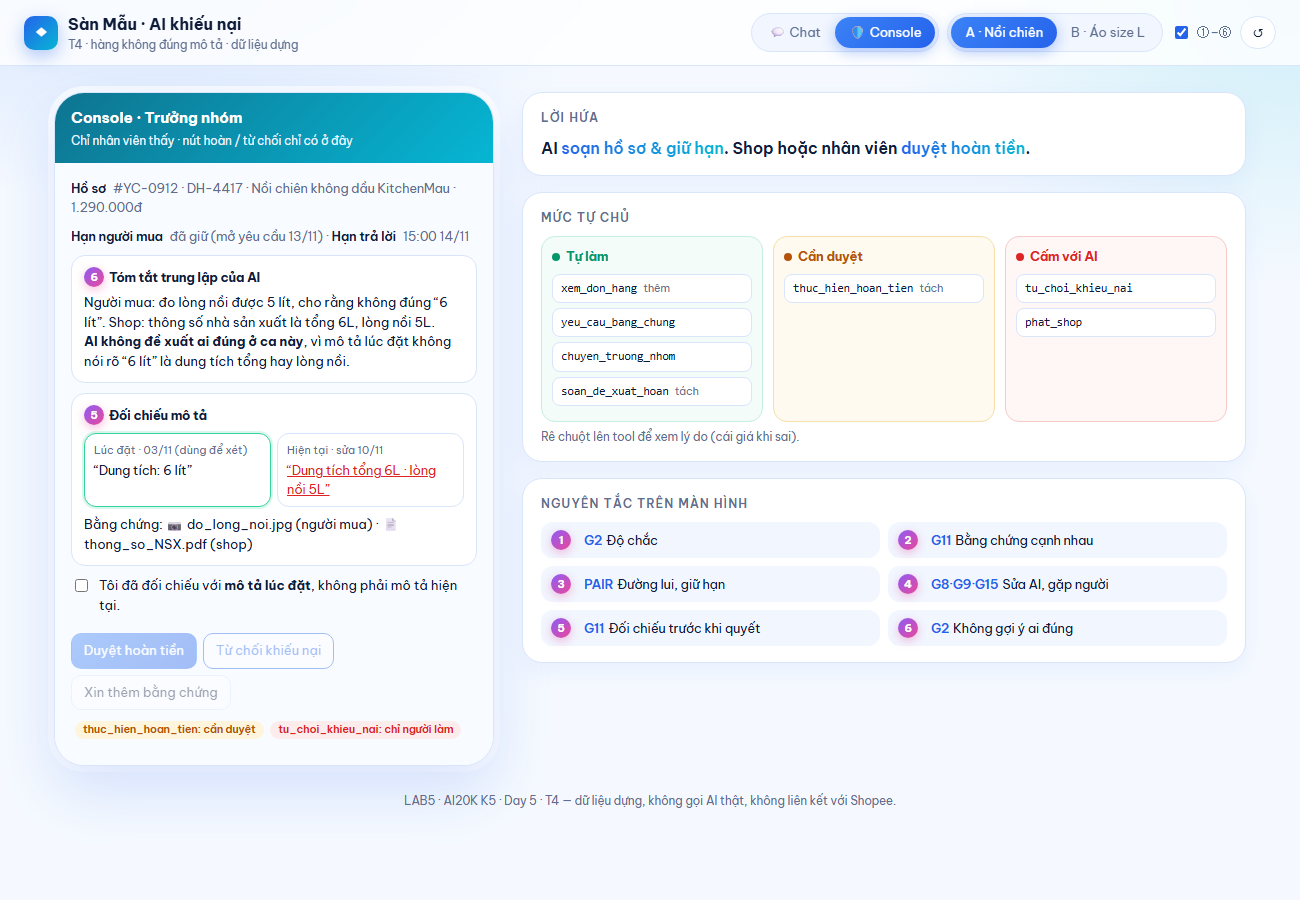
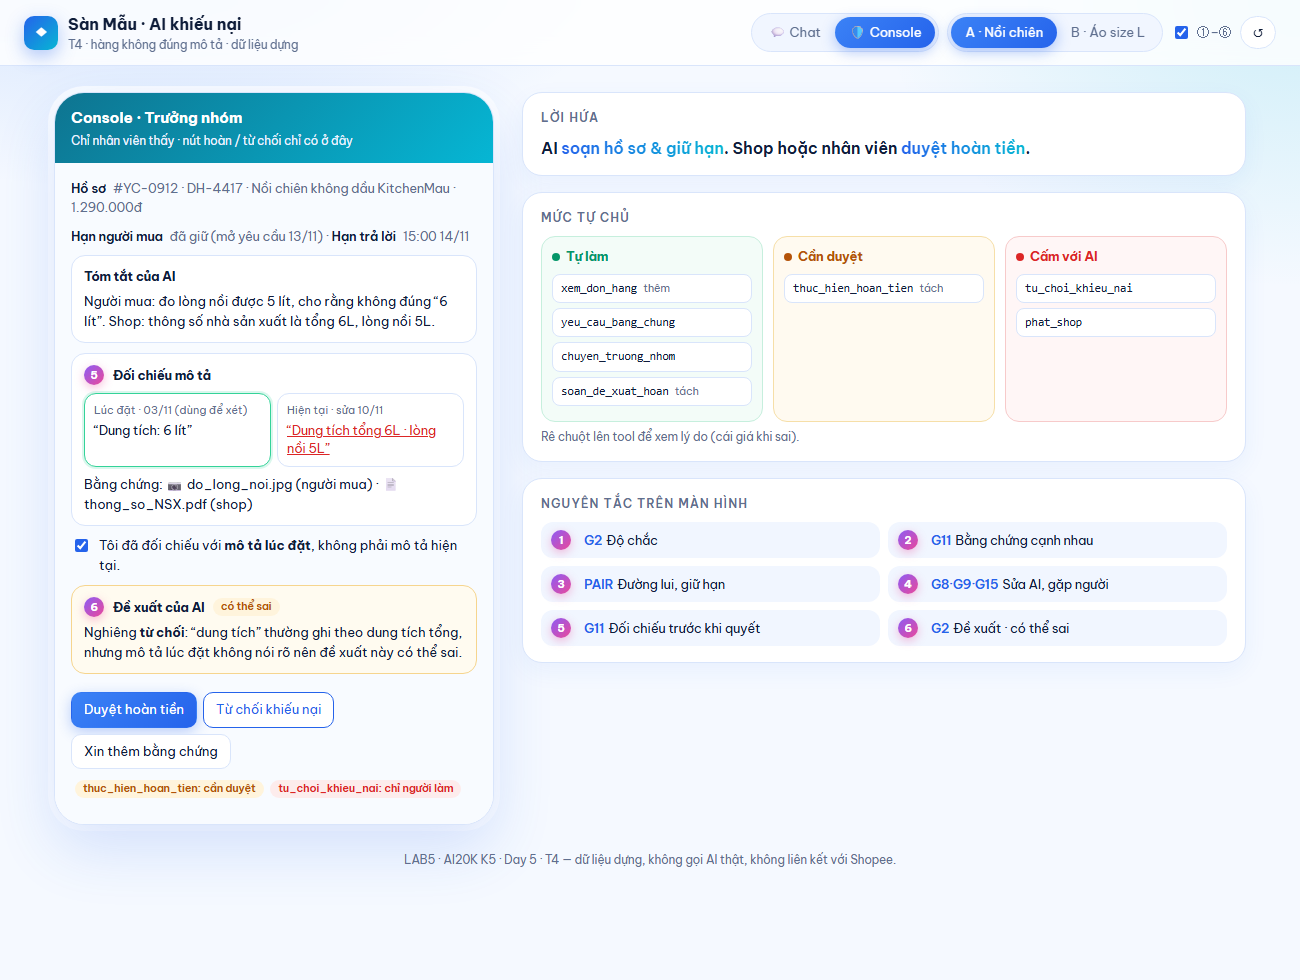
console: AI de xuat 1 cau, nhan co the sai; doi luat §4

diff --git a/prototype/index.html b/prototype/index.html
@@ -116,7 +116,9 @@ body.hide-n .n{display:none}
 .cbody{padding:16px;display:flex;flex-direction:column;gap:10px;background:#f8fbff}
 .kv{font-size:12.5px;color:var(--mut)}.kv b{color:var(--ink);font-weight:600;margin-right:4px}
 .sec{border:1px solid var(--line);border-radius:14px;padding:11px 12px;background:#fff;font-size:13px}
-.sec h3{margin:0 0 6px;font-size:12.5px;display:flex;align-items:center}
+.sec h3{margin:0 0 6px;font-size:12.5px;display:flex;align-items:center;gap:4px}
+.sec.rec{border-color:#f6d58e;background:#fffbf0}
+.mut{color:var(--mut);font-style:italic}
 label.chk{display:flex;gap:8px;align-items:flex-start;font-size:13px}
 label.chk input{accent-color:var(--blue);margin-top:3px}
 .foot{color:var(--mut);font-size:11.5px;text-align:center;padding:0 24px 24px}
@@ -183,7 +185,7 @@ label.chk input{accent-color:var(--blue);margin-top:3px}
         <li><span class="n">3</span><span><b>PAIR</b>Đường lui, giữ hạn</span></li>
         <li><span class="n">4</span><span><b>G8·G9·G15</b>Sửa AI, gặp người</span></li>
         <li><span class="n">5</span><span><b>G11</b>Đối chiếu trước khi quyết</span></li>
-        <li><span class="n">6</span><span><b>G2</b>Không gợi ý ai đúng</span></li>
+        <li><span class="n">6</span><span><b>G2</b>Đề xuất · có thể sai</span></li>
       </ul>
     </div>
   </aside>
@@ -384,8 +386,8 @@ function caseFile(){
   const id=S.opened?k.req:'CT-2207';
   const shop=S.shopReplied;
   if(C==='A')return{id,
-    summary:'Người mua: đo lòng nồi được 5 lít, cho rằng không đúng “6 lít”. '+(shop?'Shop: thông số nhà sản xuất là tổng 6L, lòng nồi 5L.':'Shop chưa phản hồi.')+
-      '<br><b>AI không đề xuất ai đúng ở ca này</b>, vì mô tả lúc đặt không nói rõ “6 lít” là dung tích tổng hay lòng nồi.',
+    summary:'Người mua: đo lòng nồi được 5 lít, cho rằng không đúng “6 lít”. '+(shop?'Shop: thông số nhà sản xuất là tổng 6L, lòng nồi 5L.':'Shop chưa phản hồi.'),
+    rec:'Nghiêng <b>từ chối</b>: “dung tích” thường ghi theo dung tích tổng, nhưng mô tả lúc đặt không nói rõ nên đề xuất này có thể sai.',
     cmp:`<div class="used"><div class="h">Lúc đặt · 03/11 (dùng để xét)</div>“Dung tích: 6 lít”</div>
       <div><div class="h">Hiện tại · sửa 10/11</div><span class="edited"><u>“Dung tích tổng 6L · lòng nồi 5L”</u></span></div>`,
     ev:[S.photo?'📷 do_long_noi.jpg (người mua)':'người mua chưa gửi ảnh',shop?'📄 thong_so_NSX.pdf (shop)':'shop chưa phản hồi'],
@@ -395,8 +397,10 @@ function caseFile(){
       more:'Nhân viên sàn cần thêm một ảnh đo lòng nồi bằng vạch nước.'}};
   return{id,
     summary:'Người mua: áo tem L mặc chật, cho rằng không đúng mô tả. Tem áo ghi L, khớp mô tả lúc đặt. '+
-      (S.cm?`Số đo người mua gửi: <b>${S.cm} cm</b> (mô tả lúc đặt: 100 cm). `:'Người mua chưa gửi số đo. ')+(shop?'Shop: bảng size L có vòng ngực 100 cm.':'Shop chưa phản hồi.')+
-      '<br><b>AI không đề xuất ai đúng ở ca này</b>; nhân viên đối chiếu số đo với mô tả lúc đặt.',
+      (S.cm?`Số đo người mua gửi: <b>${S.cm} cm</b> (mô tả lúc đặt: 100 cm). `:'Người mua chưa gửi số đo. ')+(shop?'Shop: bảng size L có vòng ngực 100 cm.':'Shop chưa phản hồi.'),
+    rec:!S.cm?'Nghiêng <b>từ chối</b>: tem L khớp mô tả, nhưng người mua chưa gửi số đo nên đề xuất này dễ sai.'
+      :S.cm<98?`Nghiêng <b>hoàn tiền</b>: số đo ${S.cm} cm nhỏ hơn mô tả ${(100-S.cm).toFixed(0)} cm, nhưng AI không kiểm được ảnh đo là thật.`
+      :`Nghiêng <b>từ chối</b>: tem L và số đo ${S.cm} cm không nhỏ hơn mô tả, nhưng AI không kiểm được cách đo.`,
     cmp:`<div class="used"><div class="h">Lúc đặt · 05/11 (dùng để xét)</div>“Size L · vòng ngực 100 cm”</div>
       <div><div class="h">Hiện tại</div>Không đổi</div>`,
     ev:['📷 tem_ao.jpg (người mua)',S.cm?`số đo ${S.cm} cm (người mua)`:'người mua chưa gửi số đo',shop?'📄 bang_size.png (shop)':'shop chưa phản hồi'],
@@ -414,13 +418,14 @@ function renderConsole(){
   cb.innerHTML=`
   <div class="kv"><b>Hồ sơ</b> ${f.id}${S.opened?'':' (người mua chưa mở yêu cầu)'} · ${o.id} · ${o.name} · ${o.price}</div>
   <div class="kv"><b>Hạn người mua</b> ${S.opened?'đã giữ (mở yêu cầu 13/11)':'chưa giữ · hết hạn '+o.deadline} · <b>Hạn trả lời</b> 15:00 14/11</div>
-  <div class="sec"><h3><span class="n">6</span>Tóm tắt trung lập của AI</h3>${f.summary}</div>
+  <div class="sec"><h3>Tóm tắt của AI</h3>${f.summary}</div>
   <div class="sec"><h3><span class="n">5</span>Đối chiếu mô tả</h3>
     <div class="cmp">${f.cmp}</div>
     Bằng chứng: ${f.ev.join(' · ')}${S.extra?` · 📷 ${CASE[C].extraFile} (người mua, bổ sung)`:''}</div>
   ${S.decided?'<div class="box ok">Hồ sơ đã có quyết định cuối.</div>':''}
   ${S.needMore?`<div class="box warn">Đang chờ người mua bổ sung ${CASE[C].more}. Các nút quyết định mở lại khi có ảnh mới.</div>`:''}
   <label class="chk"><input type="checkbox" id="ack"><span>Tôi đã đối chiếu với <b>mô tả lúc đặt</b>, không phải mô tả hiện tại.</span></label>
+  <div class="sec rec"><h3><span class="n">6</span>Đề xuất của AI <span class="lvl l-ask">có thể sai</span></h3><div id="recTxt" class="mut">Tự đối chiếu trước, đề xuất hiện sau khi tick.</div></div>
   <div class="btns">
     <button class="btn pri" disabled data-d="refund">Duyệt hoàn tiền</button>
     <button class="btn out" disabled data-d="reject">Từ chối khiếu nại</button>
@@ -428,7 +433,12 @@ function renderConsole(){
   </div>
   <div style="font-size:12px;color:var(--mut)"><span class="lvl l-ask">thuc_hien_hoan_tien: cần duyệt</span> <span class="lvl l-no">tu_choi_khieu_nai: chỉ người làm</span></div>
   <div id="cres"></div>`;
-  $('#ack').onchange=e=>cb.querySelectorAll('[data-d]').forEach(b=>b.disabled=!e.target.checked||!!S.decided||!!S.needMore);
+  $('#ack').onchange=e=>{
+    cb.querySelectorAll('[data-d]').forEach(b=>b.disabled=!e.target.checked||!!S.decided||!!S.needMore);
+    // Đề xuất chỉ hiện sau khi nhân viên tự đối chiếu, để giảm anchoring
+    $('#recTxt').innerHTML=e.target.checked?f.rec:'Tự đối chiếu trước, đề xuất hiện sau khi tick.';
+    $('#recTxt').classList.toggle('mut',!e.target.checked);
+  };
   cb.querySelectorAll('[data-d]').forEach(b=>b.onclick=()=>decide(b.dataset.d));
 }
 function decide(d){
@@ -464,7 +474,7 @@ $('#send').onclick=()=>{const v=$('#free').value.trim();if(v){free(v);$('#free')
 $('#free').onkeydown=e=>{if(e.key==='Enter')$('#send').click()};
 reset();
 // Mở index.html#console để vào thẳng Màn 2 với hồ sơ ca A đã đủ bằng chứng (dùng khi chụp ảnh / demo nhanh)
-if(location.hash==='#console'){openReq();sendPhoto();shopReply();goScreen('console')}
+if(location.hash==='#console'){openReq();sendPhoto();shopReply();goScreen('console');$('#ack').click()}
 </script>
 </body>
 </html>

diff --git a/spec.md b/spec.md
@@ -83,7 +83,7 @@ Bây giờ: **13/11/2026 15:00**.
 
 1. Chat đặt hai bản mô tả cạnh nhau và đánh dấu bản ngày 03/11 là căn cứ xét. Hiện trạng thái “Chưa đủ căn cứ” và hạn của đơn DH-4417. Người mua có thể sửa thông tin AI hiểu sai hoặc nhờ nhân viên ngay.
 2. Khi người mua mở yêu cầu thành công, hiển thị xác nhận giữ hạn. Sau đó gọi `yeu_cau_bang_chung` bằng mẫu trung lập. Shop có 48 giờ để phản hồi.
-3. Khi có bằng chứng hai bên hoặc shop hết 48 giờ chưa phản hồi, chuyển hồ sơ cho trưởng nhóm. Hồ sơ gồm bản lúc đặt, lịch sử sửa, bằng chứng hiện có và tóm tắt trung lập. Trưởng nhóm phản hồi trong 24 giờ kể từ lúc nhận hồ sơ. AI xác nhận đã gửi hoặc đã chuyển sau khi thao tác tương ứng thành công.
+3. Khi có bằng chứng hai bên hoặc shop hết 48 giờ chưa phản hồi, chuyển hồ sơ cho trưởng nhóm. Hồ sơ gồm bản lúc đặt, lịch sử sửa, bằng chứng hiện có, tóm tắt và **một câu đề xuất của AI có nhãn "có thể sai"** (xem §4). Trưởng nhóm phản hồi trong 24 giờ kể từ lúc nhận hồ sơ. AI xác nhận đã gửi hoặc đã chuyển sau khi thao tác tương ứng thành công.
 
 **Quyết định.** Nhóm cân nhắc việc chỉ hỏi lại, giải thích giới hạn rồi thu thập bằng chứng, chuyển người ngay, hoặc để AI tự kết luận. Chọn **giải thích giới hạn rồi thu thập bằng chứng trước khi chuyển người** vì người mua có thể giữ hạn ngay và trưởng nhóm có dữ liệu để đối chiếu.
 
@@ -147,7 +147,7 @@ Câu này **không hứa** hoàn tiền và **không kết luận** shop đúng,
 ### Nguyên tắc HAX/PAIR (trỏ vào chỗ cụ thể — xem ảnh đánh số ở §5)
 
 - **G1 — Làm rõ AI làm được gì** *(kèm Luật AI 134/2025 Điều 11.1)* → dòng cố định ở đầu khung chat Màn 1, ngay trên ①: "Bạn đang trò chuyện với **trợ lý AI** của Sàn Mẫu. Quyết định hoàn tiền hay từ chối do shop hoặc nhân viên sàn đưa ra." Người mua biết mình đang nói với AI, và biết AI không phải người quyết.
-- **G2 — Làm rõ AI làm tốt đến đâu** → nhãn độ chắc ở đầu mỗi câu trả lời: "Chưa đủ căn cứ · cần người xét" (A) và "Tem khớp mô tả · chưa thấy căn cứ" (B). Ảnh ①. Ở Màn 2, dòng "AI không đề xuất ai đúng ở ca này". Ảnh ⑥.
+- **G2 — Làm rõ AI làm tốt đến đâu** → nhãn độ chắc ở đầu mỗi câu trả lời: "Chưa đủ căn cứ · cần người xét" (A) và "Tem khớp mô tả · chưa thấy căn cứ" (B). Ảnh ①. Ở Màn 2, đề xuất của AI luôn gắn nhãn **"có thể sai"** và nói rõ điều gì khiến nó sai. Ảnh ⑥.
 - **G11 — Giải thích vì sao** → thẻ so sánh "Mô tả lúc đặt vs hiện tại" có ngày sửa (A), và ảnh tem cạnh dòng mô tả (B). Ảnh ②. Ở Màn 2, phải tick "Tôi đã đối chiếu mô tả lúc đặt" thì mới mở được nút quyết định. Ảnh ⑤.
 - **G9 — Sửa dễ dàng / G8 — Gạt bỏ dễ dàng / G15 — Mời feedback chi tiết** → nút "AI hiểu sai? Sửa lại" (người mua chọn sai ở điểm nào, AI hỏi lại) và "Gặp nhân viên ngay" luôn hiện dưới câu trả lời. Ảnh ④.
 - **PAIR · Errors + Graceful Failure** → khi chưa đủ căn cứ, AI giữ hạn trả hàng và chỉ bước tiếp theo, không bỏ người mua lại. Thanh trạng thái 3 bước và chip "còn 2 ngày, đã giữ". Ảnh ③.
@@ -194,7 +194,9 @@ Ba thành viên xếp lệch nhau:
 
 **Nhóm chốt: cấm với AI**, kèm hai luật:
 1. Người mua không bổ sung bằng chứng sau 72 giờ thì AI nhắc một lần, rồi chuyển hồ sơ cho trưởng nhóm. Không tự đóng.
-2. Trong hồ sơ gửi trưởng nhóm, AI chỉ viết **tóm tắt trung lập** (hai bên nói gì, khớp hay không khớp với snapshot), **không** viết "đề xuất: từ chối".
+2. Trong hồ sơ gửi trưởng nhóm, AI được ghi **một câu đề xuất** (nghiêng hoàn tiền / nghiêng từ chối) kèm lý do và **điều có thể làm đề xuất sai**, gắn nhãn "có thể sai". Đề xuất **chỉ hiện sau khi** trưởng nhóm tick "đã tự đối chiếu mô tả lúc đặt", để giảm anchoring. AI vẫn không có nút quyết định.
+
+*Vì sao nhóm đổi từ "không đề xuất" sang "đề xuất có nhãn có thể sai":* để trưởng nhóm thấy **chỗ AI có thể sai** thay vì để AI giấu nhận định trong cách tóm tắt. Ở ca A, AI nghiêng **từ chối** vì cho rằng "6 lít" là dung tích tổng, đúng kiểu sai ở #3: nếu trưởng nhóm bấm theo mà không tự đối chiếu, người mua mất 1,29 triệu. Ở ca B với số đo 92 cm, AI nghiêng **hoàn tiền** nhưng không kiểm được ảnh đo là thật. Đổi lại, nhóm chấp nhận rủi ro anchoring và giảm nó bằng thứ tự hiển thị (tự đối chiếu trước, xem đề xuất sau).
 
 Lý do: cái giá phía chọn "cấm" (shop chờ thêm khoảng 24 giờ, tiền không mất) **rẻ hơn** cái giá phía chọn "tự làm" (người mua mất 1,29 triệu ở #3, không đảo được).
 
@@ -235,7 +237,7 @@ Khi tách `soan_hoan_tien` thành "soạn" (tự làm) và "thực hiện" (cầ
 | ③ | Thanh trạng thái 3 bước + chip "Hạn trả hàng còn 2 ngày · đến 23:59 15/11". Dòng "Hoàn tiền: cần shop hoặc nhân viên duyệt · AI không có nút hoàn" | PAIR Errors + Graceful Failure | `yeu_cau_bang_chung`: tự làm (nhãn "AI đã tự gửi") · `thuc_hien_hoan_tien`: cần duyệt, **không có nút cho AI** |
 | ④ | Nút "AI hiểu sai? Sửa lại" (chọn sai ở điểm nào) và "Gặp nhân viên ngay" | G9 · G8 · G15 | `chuyen_truong_nhom`: tự làm |
 | ⑤ | Console: nút Duyệt hoàn / Từ chối chỉ có ở đây, chỉ mở khoá sau khi tick "Tôi đã đối chiếu mô tả lúc đặt" | G11 | `thuc_hien_hoan_tien`: cần duyệt · `tu_choi_khieu_nai`: chỉ người làm |
-| ⑥ | Tóm tắt trung lập: "AI không đề xuất ai đúng ở ca này" | G2 · chống anchoring | luật ở §4 |
+| ⑥ | Đề xuất của AI một câu, nhãn "có thể sai", chỉ hiện sau khi tick đối chiếu. Ca A: nghiêng từ chối; ca B: theo số đo | G2 · G11 · giảm anchoring | luật ở §4 (quyết định vẫn của người) |
 
 **Quyết định — cách hiện độ chắc / bằng chứng (4 ý):**
 - **Đã cân nhắc:** (a) phần trăm độ tin cậy ("72%") · (b) nhãn bằng chữ + bằng chứng đặt cạnh nhau · (c) chỉ hiện kết luận, ẩn bản mô tả đã sửa.
@@ -266,7 +268,7 @@ Khi tách `soan_hoan_tien` thành "soạn" (tự làm) và "thực hiện" (cầ
 
 **Phạm vi kiểm thử.** Prototype HTML mô phỏng trạng thái trên màn hình. Việc xác minh phân quyền và phản hồi từ tool cần bản tích hợp có log.
 
-**Lỗi còn lại.** Tóm tắt của AI vẫn có thể ảnh hưởng cách trưởng nhóm đọc hồ sơ. Ảnh đo hoặc ảnh tem có thể đã chỉnh sửa. Nếu người mua thiếu dụng cụ đo áo, họ có thể nhờ nhân viên hỗ trợ.
+**Lỗi còn lại.** Đề xuất của AI vẫn có thể kéo trưởng nhóm bấm theo (anchoring), dù chỉ hiện sau khi họ tự đối chiếu; ở ca A đề xuất "từ chối" có thể sai. Ảnh đo hoặc ảnh tem có thể đã chỉnh sửa. Nếu người mua thiếu dụng cụ đo áo, họ có thể nhờ nhân viên hỗ trợ.
 
 ---
 

diff --git a/prototype/README.md b/prototype/README.md
@@ -33,6 +33,6 @@
 | ③ | Thanh trạng thái 3 bước + chip hạn đã giữ. Dòng "Hoàn tiền: cần shop hoặc nhân viên duyệt · AI không có nút hoàn" | PAIR Errors + Graceful Failure | `yeu_cau_bang_chung`: tự làm · `thuc_hien_hoan_tien`: cần duyệt |
 | ④ | Nút "AI hiểu sai? Sửa lại" (chọn sai ở điểm nào) và "Gặp nhân viên ngay" | G9 · G8 · G15 | `chuyen_truong_nhom`: tự làm |
 | ⑤ | Console: phải tick "đã đối chiếu mô tả lúc đặt" thì mới mở được nút quyết định | G11 | `thuc_hien_hoan_tien`: cần duyệt · `tu_choi_khieu_nai`: chỉ người làm |
-| ⑥ | Tóm tắt trung lập: "AI không đề xuất ai đúng ở ca này" | G2 · chống anchoring | luật ở `spec.md` §4 |
+| ⑥ | Đề xuất của AI (một câu, nhãn "có thể sai"), chỉ hiện sau khi tick đối chiếu | G2 · G11 · giảm anchoring | luật ở `spec.md` §4 |
 
 Cột phải của cả hai màn: lời hứa với người mua, mức tự chủ của 7 tool chia 3 cột (rê chuột lên tool để xem lý do) và chú thích ①–⑥. Công tắc **①–⑥** trên thanh trên cùng bật/tắt các số; nút **↺** làm lại ca.
